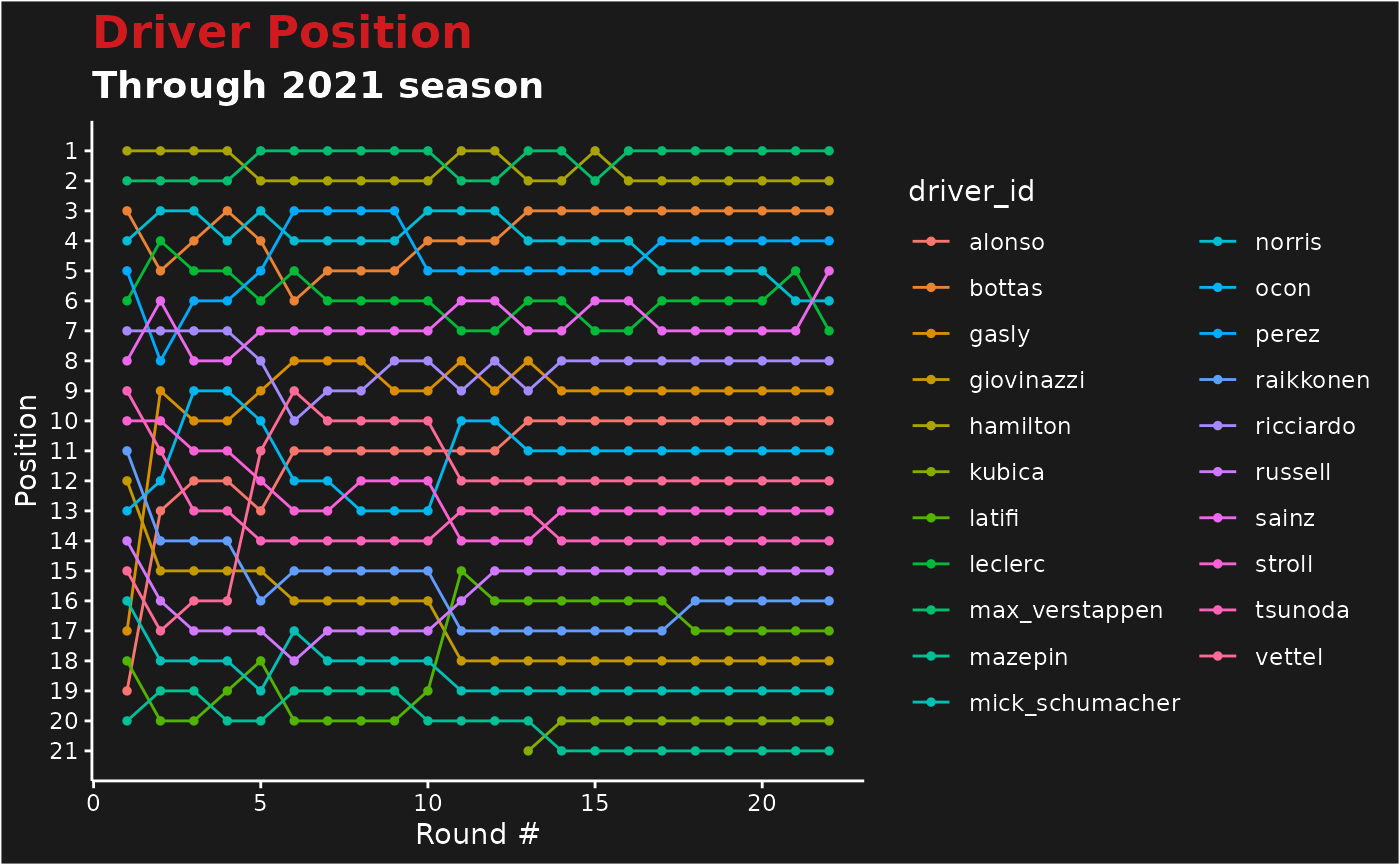
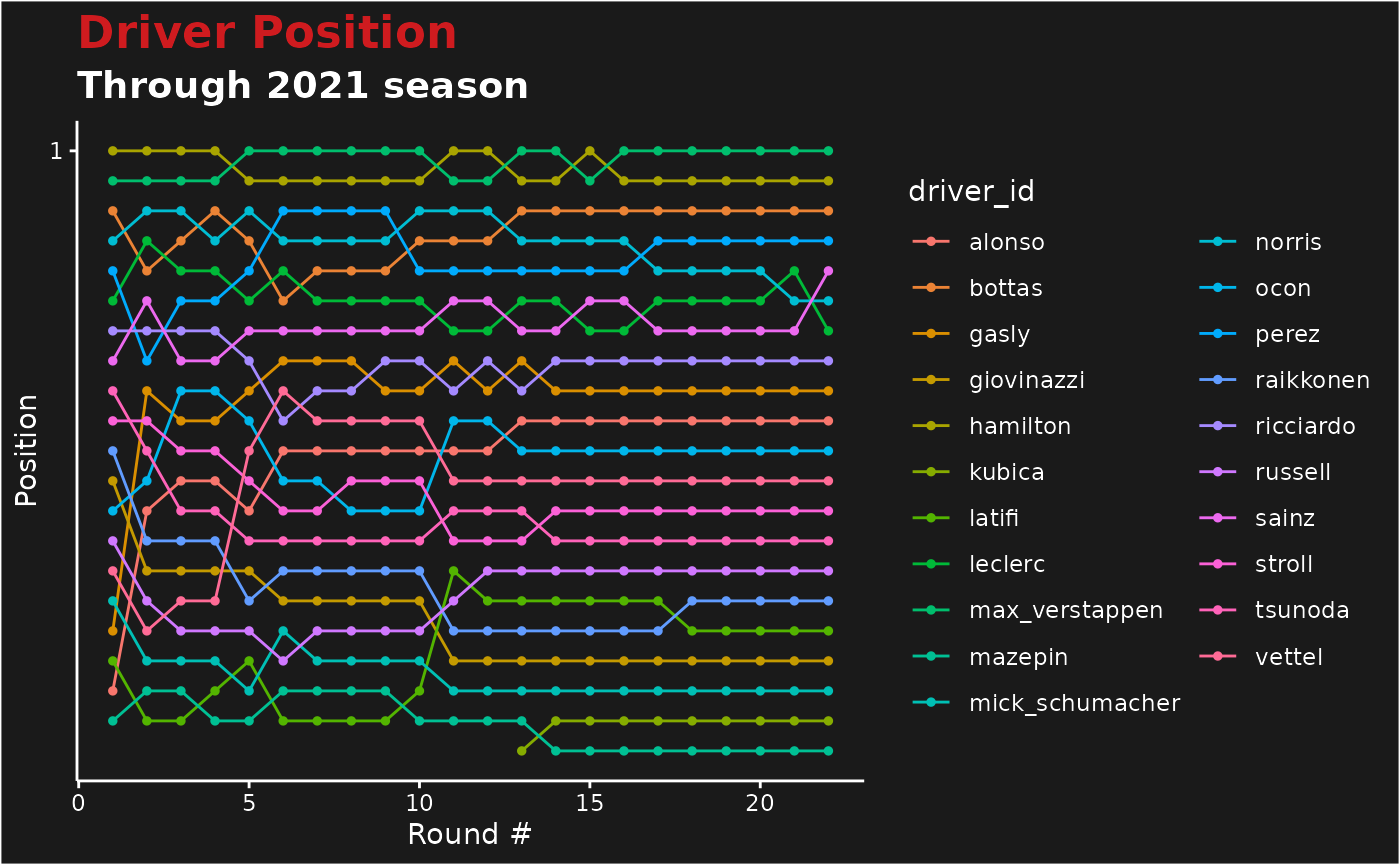
Deploying to gh-pages from @ SCasanova/f1dataR@8d755c33284d47c638581a3f0929dc2a9e71066f 🚀

diff --git a/index.html b/index.html
@@ -145,7 +145,7 @@
 <span><span class="co">#&gt;  8 perez          8        1:33.068     1     93.1   2023</span></span>
 <span><span class="co">#&gt;  9 hulkenberg     9        1:33.589     1     93.6   2023</span></span>
 <span><span class="co">#&gt; 10 stroll         10       1:34.105     1     94.1   2023</span></span>
-<span><span class="co">#&gt; # … with 1,242 more rows</span></span></code></pre></div>
+<span><span class="co">#&gt; # ℹ 1,242 more rows</span></span></code></pre></div>
 <p>or</p>
 <div class="sourceCode" id="cb4"><pre class="downlit sourceCode r">
 <code class="sourceCode R"><span><span class="fu"><a href="reference/load_laps.html">load_laps</a></span><span class="op">(</span>season <span class="op">=</span> <span class="fl">2021</span>, round <span class="op">=</span> <span class="fl">15</span><span class="op">)</span></span>
@@ -162,7 +162,7 @@
 <span><span class="co">#&gt;  8 perez     8        1:50.617     1     111.   2021</span></span>
 <span><span class="co">#&gt;  9 ocon      9        1:51.098     1     111.   2021</span></span>
 <span><span class="co">#&gt; 10 raikkonen 10       1:51.778     1     112.   2021</span></span>
-<span><span class="co">#&gt; # … with 1,015 more rows</span></span></code></pre></div>
+<span><span class="co">#&gt; # ℹ 1,015 more rows</span></span></code></pre></div>
 </div>
 <div class="section level3">
 <h3 id="driver-telemetry">Driver Telemetry<a class="anchor" aria-label="anchor" href="#driver-telemetry"></a>
@@ -174,41 +174,41 @@
 <div class="sourceCode" id="cb5"><pre class="downlit sourceCode r">
 <code class="sourceCode R"><span><span class="fu"><a href="reference/load_driver_telemetry.html">load_driver_telemetry</a></span><span class="op">(</span>season <span class="op">=</span> <span class="fl">2022</span>, round <span class="op">=</span> <span class="fl">4</span>, driver <span class="op">=</span> <span class="st">"PER"</span><span class="op">)</span></span>
 <span><span class="co">#&gt; # A tibble: 592 × 19</span></span>
-<span><span class="co">#&gt;    date                session_time  time   rpm speed n_gear throt…¹ brake   drs</span></span>
-<span><span class="co">#&gt;    &lt;dttm&gt;                     &lt;dbl&gt; &lt;dbl&gt; &lt;dbl&gt; &lt;dbl&gt;  &lt;dbl&gt;   &lt;dbl&gt; &lt;lgl&gt; &lt;dbl&gt;</span></span>
-<span><span class="co">#&gt;  1 2022-04-24 09:19:27        8308. 0     11221   282      7     100 FALSE     0</span></span>
-<span><span class="co">#&gt;  2 2022-04-24 09:19:27        8308. 0.021 11221   283      7     100 FALSE     0</span></span>
-<span><span class="co">#&gt;  3 2022-04-24 09:19:28        8308. 0.278 11221   284      7     100 FALSE     0</span></span>
-<span><span class="co">#&gt;  4 2022-04-24 09:19:28        8308. 0.401 11279   285      7     100 FALSE     0</span></span>
-<span><span class="co">#&gt;  5 2022-04-24 09:19:28        8309. 0.678 11337   286      7     100 FALSE     0</span></span>
-<span><span class="co">#&gt;  6 2022-04-24 09:19:28        8309. 0.681 11376   287      7     100 FALSE     0</span></span>
-<span><span class="co">#&gt;  7 2022-04-24 09:19:28        8309. 0.86  11416   288      7     100 FALSE     0</span></span>
-<span><span class="co">#&gt;  8 2022-04-24 09:19:29        8309. 1.08  11456   289      7     100 FALSE     0</span></span>
-<span><span class="co">#&gt;  9 2022-04-24 09:19:29        8309. 1.18  11461   289      7     100 FALSE     0</span></span>
-<span><span class="co">#&gt; 10 2022-04-24 09:19:29        8309. 1.24  11467   290      7     100 FALSE     0</span></span>
-<span><span class="co">#&gt; # … with 582 more rows, 10 more variables: source &lt;chr&gt;,</span></span>
-<span><span class="co">#&gt; #   relative_distance &lt;dbl&gt;, status &lt;chr&gt;, x &lt;dbl&gt;, y &lt;dbl&gt;, z &lt;dbl&gt;,</span></span>
-<span><span class="co">#&gt; #   distance &lt;dbl&gt;, driver_ahead &lt;chr&gt;, distance_to_driver_ahead &lt;dbl&gt;,</span></span>
-<span><span class="co">#&gt; #   driver_code &lt;chr&gt;, and abbreviated variable name ¹throttle</span></span>
+<span><span class="co">#&gt;    date                session_time  time   rpm speed n_gear throttle brake</span></span>
+<span><span class="co">#&gt;    &lt;dttm&gt;                     &lt;dbl&gt; &lt;dbl&gt; &lt;dbl&gt; &lt;dbl&gt;  &lt;dbl&gt;    &lt;dbl&gt; &lt;lgl&gt;</span></span>
+<span><span class="co">#&gt;  1 2022-04-24 10:19:27        8308. 0     11221   282      7      100 FALSE</span></span>
+<span><span class="co">#&gt;  2 2022-04-24 10:19:27        8308. 0.021 11221   283      7      100 FALSE</span></span>
+<span><span class="co">#&gt;  3 2022-04-24 10:19:28        8308. 0.278 11221   284      7      100 FALSE</span></span>
+<span><span class="co">#&gt;  4 2022-04-24 10:19:28        8308. 0.401 11279   285      7      100 FALSE</span></span>
+<span><span class="co">#&gt;  5 2022-04-24 10:19:28        8309. 0.678 11337   286      7      100 FALSE</span></span>
+<span><span class="co">#&gt;  6 2022-04-24 10:19:28        8309. 0.681 11376   287      7      100 FALSE</span></span>
+<span><span class="co">#&gt;  7 2022-04-24 10:19:28        8309. 0.86  11416   288      7      100 FALSE</span></span>
+<span><span class="co">#&gt;  8 2022-04-24 10:19:29        8309. 1.08  11456   289      7      100 FALSE</span></span>
+<span><span class="co">#&gt;  9 2022-04-24 10:19:29        8309. 1.18  11461   289      7      100 FALSE</span></span>
+<span><span class="co">#&gt; 10 2022-04-24 10:19:29        8309. 1.24  11467   290      7      100 FALSE</span></span>
+<span><span class="co">#&gt; # ℹ 582 more rows</span></span>
+<span><span class="co">#&gt; # ℹ 11 more variables: drs &lt;dbl&gt;, source &lt;chr&gt;, relative_distance &lt;dbl&gt;,</span></span>
+<span><span class="co">#&gt; #   status &lt;chr&gt;, x &lt;dbl&gt;, y &lt;dbl&gt;, z &lt;dbl&gt;, distance &lt;dbl&gt;,</span></span>
+<span><span class="co">#&gt; #   driver_ahead &lt;chr&gt;, distance_to_driver_ahead &lt;dbl&gt;, …</span></span>
 <span></span>
 <span><span class="fu"><a href="reference/load_driver_telemetry.html">load_driver_telemetry</a></span><span class="op">(</span>season <span class="op">=</span> <span class="fl">2018</span>, round <span class="op">=</span> <span class="fl">7</span>, <span class="st">"Q"</span>, <span class="st">"HAM"</span>, laps <span class="op">=</span> <span class="st">"fastest"</span><span class="op">)</span></span>
 <span><span class="co">#&gt; # A tibble: 534 × 19</span></span>
-<span><span class="co">#&gt;    date                session_time  time   rpm speed n_gear throt…¹ brake   drs</span></span>
-<span><span class="co">#&gt;    &lt;dttm&gt;                     &lt;dbl&gt; &lt;dbl&gt; &lt;dbl&gt; &lt;dbl&gt;  &lt;dbl&gt;   &lt;dbl&gt; &lt;lgl&gt; &lt;dbl&gt;</span></span>
-<span><span class="co">#&gt;  1 2018-06-09 13:59:18        3788. 0     10674   297      8     100 FALSE    12</span></span>
-<span><span class="co">#&gt;  2 2018-06-09 13:59:18        3788. 0.016 10704   298      8     100 FALSE    12</span></span>
-<span><span class="co">#&gt;  3 2018-06-09 13:59:18        3788. 0.043 10762   299      8     100 FALSE    12</span></span>
-<span><span class="co">#&gt;  4 2018-06-09 13:59:19        3788. 0.256 10820   301      8     100 FALSE    12</span></span>
-<span><span class="co">#&gt;  5 2018-06-09 13:59:19        3788. 0.343 10847   302      8     100 FALSE    12</span></span>
-<span><span class="co">#&gt;  6 2018-06-09 13:59:19        3788. 0.496 10875   303      8     100 FALSE    12</span></span>
-<span><span class="co">#&gt;  7 2018-06-09 13:59:19        3789. 0.643 10921   303      8     100 FALSE    12</span></span>
-<span><span class="co">#&gt;  8 2018-06-09 13:59:19        3789. 0.736 10967   304      8     100 FALSE    12</span></span>
-<span><span class="co">#&gt;  9 2018-06-09 13:59:19        3789. 0.943 10990   305      8     100 FALSE    12</span></span>
-<span><span class="co">#&gt; 10 2018-06-09 13:59:19        3789. 0.976 11014   306      8     100 FALSE    12</span></span>
-<span><span class="co">#&gt; # … with 524 more rows, 10 more variables: source &lt;chr&gt;,</span></span>
-<span><span class="co">#&gt; #   relative_distance &lt;dbl&gt;, status &lt;chr&gt;, x &lt;dbl&gt;, y &lt;dbl&gt;, z &lt;dbl&gt;,</span></span>
-<span><span class="co">#&gt; #   distance &lt;dbl&gt;, driver_ahead &lt;chr&gt;, distance_to_driver_ahead &lt;dbl&gt;,</span></span>
-<span><span class="co">#&gt; #   driver_code &lt;chr&gt;, and abbreviated variable name ¹throttle</span></span></code></pre></div>
+<span><span class="co">#&gt;    date                session_time  time   rpm speed n_gear throttle brake</span></span>
+<span><span class="co">#&gt;    &lt;dttm&gt;                     &lt;dbl&gt; &lt;dbl&gt; &lt;dbl&gt; &lt;dbl&gt;  &lt;dbl&gt;    &lt;dbl&gt; &lt;lgl&gt;</span></span>
+<span><span class="co">#&gt;  1 2018-06-09 14:59:18        3788. 0     10674   297      8      100 FALSE</span></span>
+<span><span class="co">#&gt;  2 2018-06-09 14:59:18        3788. 0.016 10704   298      8      100 FALSE</span></span>
+<span><span class="co">#&gt;  3 2018-06-09 14:59:18        3788. 0.043 10762   299      8      100 FALSE</span></span>
+<span><span class="co">#&gt;  4 2018-06-09 14:59:19        3788. 0.256 10820   301      8      100 FALSE</span></span>
+<span><span class="co">#&gt;  5 2018-06-09 14:59:19        3788. 0.343 10847   302      8      100 FALSE</span></span>
+<span><span class="co">#&gt;  6 2018-06-09 14:59:19        3788. 0.496 10875   303      8      100 FALSE</span></span>
+<span><span class="co">#&gt;  7 2018-06-09 14:59:19        3789. 0.643 10921   303      8      100 FALSE</span></span>
+<span><span class="co">#&gt;  8 2018-06-09 14:59:19        3789. 0.736 10967   304      8      100 FALSE</span></span>
+<span><span class="co">#&gt;  9 2018-06-09 14:59:19        3789. 0.943 10990   305      8      100 FALSE</span></span>
+<span><span class="co">#&gt; 10 2018-06-09 14:59:19        3789. 0.976 11014   306      8      100 FALSE</span></span>
+<span><span class="co">#&gt; # ℹ 524 more rows</span></span>
+<span><span class="co">#&gt; # ℹ 11 more variables: drs &lt;dbl&gt;, source &lt;chr&gt;, relative_distance &lt;dbl&gt;,</span></span>
+<span><span class="co">#&gt; #   status &lt;chr&gt;, x &lt;dbl&gt;, y &lt;dbl&gt;, z &lt;dbl&gt;, distance &lt;dbl&gt;,</span></span>
+<span><span class="co">#&gt; #   driver_ahead &lt;chr&gt;, distance_to_driver_ahead &lt;dbl&gt;, …</span></span></code></pre></div>
 </div>
 <div class="section level3">
 <h3 id="lap-by-lap-information">Lap-by-Lap information<a class="anchor" aria-label="anchor" href="#lap-by-lap-information"></a>
@@ -220,24 +220,23 @@
 <div class="sourceCode" id="cb6"><pre class="downlit sourceCode r">
 <code class="sourceCode R"><span><span class="fu"><a href="reference/load_session_laps.html">load_session_laps</a></span><span class="op">(</span>season <span class="op">=</span> <span class="fl">2023</span>, round <span class="op">=</span> <span class="fl">4</span>, add_weather <span class="op">=</span> <span class="cn">TRUE</span><span class="op">)</span></span>
 <span><span class="co">#&gt; # A tibble: 962 × 39</span></span>
-<span><span class="co">#&gt;     time driver driver_n…¹ lap_t…² lap_n…³ stint pit_o…⁴ pit_i…⁵ secto…⁶ secto…⁷</span></span>
-<span><span class="co">#&gt;    &lt;dbl&gt; &lt;chr&gt;  &lt;chr&gt;        &lt;dbl&gt;   &lt;dbl&gt; &lt;dbl&gt;   &lt;dbl&gt;   &lt;dbl&gt;   &lt;dbl&gt;   &lt;dbl&gt;</span></span>
-<span><span class="co">#&gt;  1 3892. VER    1             110.       1     1    697.    NaN    NaN      43.2</span></span>
-<span><span class="co">#&gt;  2 4000. VER    1             108.       2     1    NaN     NaN     38.4    43.6</span></span>
-<span><span class="co">#&gt;  3 4108. VER    1             108.       3     1    NaN     NaN     38.5    43.7</span></span>
-<span><span class="co">#&gt;  4 4215. VER    1             107.       4     1    NaN     NaN     37.9    43.4</span></span>
-<span><span class="co">#&gt;  5 4322. VER    1             107.       5     1    NaN     NaN     38.3    43.4</span></span>
-<span><span class="co">#&gt;  6 4430. VER    1             107.       6     1    NaN     NaN     38.3    43.2</span></span>
-<span><span class="co">#&gt;  7 4537. VER    1             107.       7     1    NaN     NaN     38.3    43.0</span></span>
-<span><span class="co">#&gt;  8 4643. VER    1             107.       8     1    NaN     NaN     38.0    43.0</span></span>
-<span><span class="co">#&gt;  9 4750. VER    1             107.       9     1    NaN     NaN     38.0    43.1</span></span>
-<span><span class="co">#&gt; 10 4861. VER    1             111.      10     1    NaN    4860.    37.9    43.4</span></span>
-<span><span class="co">#&gt; # … with 952 more rows, 29 more variables: sector3time &lt;dbl&gt;,</span></span>
+<span><span class="co">#&gt;     time driver driver_number lap_time lap_number stint pit_out_time pit_in_time</span></span>
+<span><span class="co">#&gt;    &lt;dbl&gt; &lt;chr&gt;  &lt;chr&gt;            &lt;dbl&gt;      &lt;dbl&gt; &lt;dbl&gt;        &lt;dbl&gt;       &lt;dbl&gt;</span></span>
+<span><span class="co">#&gt;  1 3892. VER    1                 110.          1     1         697.        NaN </span></span>
+<span><span class="co">#&gt;  2 4000. VER    1                 108.          2     1         NaN         NaN </span></span>
+<span><span class="co">#&gt;  3 4108. VER    1                 108.          3     1         NaN         NaN </span></span>
+<span><span class="co">#&gt;  4 4215. VER    1                 107.          4     1         NaN         NaN </span></span>
+<span><span class="co">#&gt;  5 4322. VER    1                 107.          5     1         NaN         NaN </span></span>
+<span><span class="co">#&gt;  6 4430. VER    1                 107.          6     1         NaN         NaN </span></span>
+<span><span class="co">#&gt;  7 4537. VER    1                 107.          7     1         NaN         NaN </span></span>
+<span><span class="co">#&gt;  8 4643. VER    1                 107.          8     1         NaN         NaN </span></span>
+<span><span class="co">#&gt;  9 4750. VER    1                 107.          9     1         NaN         NaN </span></span>
+<span><span class="co">#&gt; 10 4861. VER    1                 111.         10     1         NaN        4860.</span></span>
+<span><span class="co">#&gt; # ℹ 952 more rows</span></span>
+<span><span class="co">#&gt; # ℹ 31 more variables: sector1time &lt;dbl&gt;, sector2time &lt;dbl&gt;, sector3time &lt;dbl&gt;,</span></span>
 <span><span class="co">#&gt; #   sector1session_time &lt;dbl&gt;, sector2session_time &lt;dbl&gt;,</span></span>
 <span><span class="co">#&gt; #   sector3session_time &lt;dbl&gt;, speed_i1 &lt;dbl&gt;, speed_i2 &lt;dbl&gt;, speed_fl &lt;dbl&gt;,</span></span>
-<span><span class="co">#&gt; #   speed_st &lt;dbl&gt;, is_personal_best &lt;list&gt;, compound &lt;chr&gt;, …, and abbreviated</span></span>
-<span><span class="co">#&gt; #   variable names ¹driver_number, ²lap_time, ³lap_number, ⁴pit_out_time,</span></span>
-<span><span class="co">#&gt; #   ⁵pit_in_time, ⁶sector1time, ⁷sector2time</span></span></code></pre></div>
+<span><span class="co">#&gt; #   speed_st &lt;dbl&gt;, …</span></span></code></pre></div>
 </div>
 <div class="section level3">
 <h3 id="plotting">Plotting<a class="anchor" aria-label="anchor" href="#plotting"></a>
@@ -246,13 +245,15 @@
 <p><code>plot_fastest(season = "current", round = "last", session = "R", driver, color = "gear")</code></p>
 </blockquote>
 <p>A built in plotting function that plots the circuit and a driver’s fastest laps’ <code>speed</code> or <code>gear</code> exists.</p>
+<div class="sourceCode" id="cb7"><pre class="downlit sourceCode r">
+<code class="sourceCode R"><span><span class="fu"><a href="reference/plot_fastest.html">plot_fastest</a></span><span class="op">(</span>season <span class="op">=</span> <span class="fl">2023</span>, round <span class="op">=</span> <span class="fl">1</span>, session <span class="op">=</span> <span class="st">"R"</span>, driver <span class="op">=</span> <span class="st">"VER"</span>, color <span class="op">=</span> <span class="st">"gear"</span><span class="op">)</span></span></code></pre></div>
 <p><img src="reference/figures/README-plot-1.png" width="100%"></p>
 </div>
 <div class="section level3">
 <h3 id="cache-information">Cache information<a class="anchor" aria-label="anchor" href="#cache-information"></a>
 </h3>
 <p>The cache directory for sessions can be set manually with the options function</p>
-<div class="sourceCode" id="cb7"><pre class="downlit sourceCode r">
+<div class="sourceCode" id="cb8"><pre class="downlit sourceCode r">
 <code class="sourceCode R"><span><span class="fu"><a href="https://rdrr.io/r/base/options.html" class="external-link">options</a></span><span class="op">(</span>f1dataR.cache <span class="op">=</span> <span class="st">"path/to/directory"</span><span class="op">)</span></span></code></pre></div>
 </div>
 <div class="section level3">
@@ -286,7 +287,7 @@
 <h2 id="loaded-data">Loaded Data<a class="anchor" aria-label="anchor" href="#loaded-data"></a>
 </h2>
 <p>The package also includes a static data frame for all current drivers and their respective constructors. Complete with team colors, and links to team logos.</p>
-<div class="sourceCode" id="cb8"><pre class="downlit sourceCode r">
+<div class="sourceCode" id="cb9"><pre class="downlit sourceCode r">
 <code class="sourceCode R"><span><span class="va">constructor_data</span> <span class="op">%&gt;%</span> <span class="fu"><a href="https://rdrr.io/r/base/colnames.html" class="external-link">colnames</a></span><span class="op">(</span><span class="op">)</span></span>
 <span><span class="co">#&gt; [1] "constructor_id"     "constructor_color"  "constructor_color2"</span></span>
 <span><span class="co">#&gt; [4] "constructor_logo"</span></span></code></pre></div>
@@ -306,8 +307,9 @@
 <div class="license">
 <h2 data-toc-skip>License</h2>
 <ul class="list-unstyled">
-<li><a href="LICENSE.html">Full license</a></li>
-<li><small><a href="https://opensource.org/licenses/mit-license.php" class="external-link">MIT</a> + file <a href="LICENSE-text.html">LICENSE</a></small></li>
+<li>
+<a href="https://opensource.org/licenses/mit-license.php" class="external-link">MIT</a> + file <a href="LICENSE-text.html">LICENSE</a>
+</li>
 </ul>
 </div>
 
@@ -336,6 +338,7 @@
 <li><a href="https://github.com/SCasanova/f1dataR/actions/workflows/test-coverage.yaml" class="external-link"><img src="https://github.com/SCasanova/f1dataR/actions/workflows/test-coverage.yaml/badge.svg" alt="test-coverage"></a></li>
 <li><a href="https://app.codecov.io/gh/SCasanova/f1dataR?branch=main" class="external-link"><img src="https://img.shields.io/codecov/c/github/SCasanova/f1dataR?label=codecov&amp;logo=codecov" alt="Codecov test coverage"></a></li>
 <li><a href="https://lifecycle.r-lib.org/articles/stages.html#stable" class="external-link"><img src="https://img.shields.io/badge/lifecycle-stable-brightgreen.svg" alt="Lifecycle: stable"></a></li>
+<li><a href="https://CRAN.R-project.org/package=f1dataR" class="external-link"><img src="https://www.r-pkg.org/badges/version/f1dataR" alt="CRAN status"></a></li>
 </ul>
 </div>
 

diff --git a/articles/ergast-data-analysis.html b/articles/ergast-data-analysis.html
@@ -105,9 +105,9 @@
 <h2 id="introduction">Introduction<a class="anchor" aria-label="anchor" href="#introduction"></a>
 </h2>
 <p>This vignette provides a few demonstrations of possible data analysis
-projects using <code>f1dataR</code> and the data pulled from the <a href="https://ergast.com/mrd" class="external-link">Ergast API</a>. All of the data used comes
-from Ergast and is not supplied by Formula 1. However, this data source
-is incredibly useful for a host of data.</p>
+projects using <code>f1dataR</code> and the data pulled from the <a href="https://ergast.com/mrd/" class="external-link">Ergast API</a>. All of the data used
+comes from Ergast and is not supplied by Formula 1. However, this data
+source is incredibly useful for a host of data.</p>
 <p>We’ll load all the required libraries for our data analysis:</p>
 <div class="sourceCode" id="cb1"><pre class="downlit sourceCode r">
 <code class="sourceCode R"><span><span class="kw"><a href="https://rdrr.io/r/base/library.html" class="external-link">library</a></span><span class="op">(</span><span class="va"><a href="https://scasanova.github.io/f1dataR/">f1dataR</a></span><span class="op">)</span></span>
@@ -164,12 +164,15 @@ We’ll filter the results to remove those who didn’t finish the race, and
 also those who didn’t start from the grid (i.e. those who started from
 Pit Lane, where <code>grid</code> = 0).</p>
 <div class="sourceCode" id="cb3"><pre class="downlit sourceCode r">
-<code class="sourceCode R"><span><span class="kw"><a href="https://rdrr.io/r/base/library.html" class="external-link">library</a></span><span class="op">(</span><span class="va"><a href="https://purrr.tidyverse.org/" class="external-link">purrr</a></span><span class="op">)</span></span>
-<span><span class="co"># Load the data</span></span>
-<span><span class="va">results</span> <span class="op">&lt;-</span> <span class="fu"><a href="https://purrr.tidyverse.org/reference/list_c.html" class="external-link">list_rbind</a></span><span class="op">(</span><span class="fu"><a href="https://purrr.tidyverse.org/reference/map.html" class="external-link">map</a></span><span class="op">(</span><span class="fu"><a href="https://rdrr.io/r/base/seq.html" class="external-link">seq_len</a></span><span class="op">(</span><span class="fl">17</span><span class="op">)</span>, .f <span class="op">=</span> <span class="kw">function</span><span class="op">(</span><span class="va">x</span><span class="op">)</span> <span class="op">{</span></span>
+<code class="sourceCode R"><span><span class="co"># Load the data</span></span>
+<span><span class="va">results</span> <span class="op">&lt;-</span> <span class="fu"><a href="https://rdrr.io/r/base/data.frame.html" class="external-link">data.frame</a></span><span class="op">(</span><span class="op">)</span></span>
+<span><span class="kw">for</span><span class="op">(</span><span class="va">i</span> <span class="kw">in</span> <span class="fu"><a href="https://rdrr.io/r/base/seq.html" class="external-link">seq_len</a></span><span class="op">(</span><span class="fl">17</span><span class="op">)</span><span class="op">)</span> <span class="op">{</span></span>
 <span>  <span class="fu"><a href="https://rdrr.io/r/base/Sys.sleep.html" class="external-link">Sys.sleep</a></span><span class="op">(</span><span class="fl">1</span><span class="op">)</span></span>
-<span>  <span class="fu"><a href="../reference/load_results.html">load_results</a></span><span class="op">(</span><span class="fl">2022</span>, <span class="va">x</span><span class="op">)</span></span>
-<span><span class="op">}</span><span class="op">)</span><span class="op">)</span> <span class="op"><a href="https://magrittr.tidyverse.org/reference/pipe.html" class="external-link">%&gt;%</a></span></span>
+<span>  <span class="va">r</span> <span class="op">&lt;-</span> <span class="fu"><a href="../reference/load_results.html">load_results</a></span><span class="op">(</span><span class="fl">2022</span>, <span class="va">i</span><span class="op">)</span></span>
+<span>  <span class="va">results</span> <span class="op">&lt;-</span> <span class="fu">dplyr</span><span class="fu">::</span><span class="fu"><a href="https://dplyr.tidyverse.org/reference/bind_rows.html" class="external-link">bind_rows</a></span><span class="op">(</span><span class="va">results</span>, <span class="va">r</span><span class="op">)</span></span>
+<span><span class="op">}</span></span>
+<span></span>
+<span><span class="va">results</span> <span class="op">&lt;-</span> <span class="va">results</span> <span class="op"><a href="https://magrittr.tidyverse.org/reference/pipe.html" class="external-link">%&gt;%</a></span></span>
 <span>  <span class="fu"><a href="https://dplyr.tidyverse.org/reference/mutate.html" class="external-link">mutate</a></span><span class="op">(</span></span>
 <span>    grid <span class="op">=</span> <span class="fu"><a href="https://rdrr.io/r/base/numeric.html" class="external-link">as.numeric</a></span><span class="op">(</span><span class="va">grid</span><span class="op">)</span>,</span>
 <span>    position <span class="op">=</span> <span class="fu"><a href="https://rdrr.io/r/base/numeric.html" class="external-link">as.numeric</a></span><span class="op">(</span><span class="va">position</span><span class="op">)</span></span>
@@ -218,7 +221,7 @@ which had good competition throughout the year for P1.</p>
 <span>  <span class="fu"><a href="https://ggplot2.tidyverse.org/reference/labs.html" class="external-link">ggtitle</a></span><span class="op">(</span><span class="st">"Driver Position"</span>, subtitle <span class="op">=</span> <span class="st">"Through 2021 season"</span><span class="op">)</span> <span class="op">+</span></span>
 <span>  <span class="fu"><a href="https://ggplot2.tidyverse.org/reference/labs.html" class="external-link">xlab</a></span><span class="op">(</span><span class="st">"Round #"</span><span class="op">)</span> <span class="op">+</span></span>
 <span>  <span class="fu"><a href="https://ggplot2.tidyverse.org/reference/labs.html" class="external-link">ylab</a></span><span class="op">(</span><span class="st">"Position"</span><span class="op">)</span> <span class="op">+</span></span>
-<span>  <span class="fu"><a href="https://ggplot2.tidyverse.org/reference/scale_continuous.html" class="external-link">scale_y_reverse</a></span><span class="op">(</span>breaks <span class="op">=</span> <span class="fl">1</span><span class="op">:</span><span class="fu"><a href="https://rdrr.io/r/base/length.html" class="external-link">length</a></span><span class="op">(</span><span class="fu"><a href="https://rdrr.io/r/base/unique.html" class="external-link">unique</a></span><span class="op">(</span><span class="va">points</span><span class="op">$</span><span class="va">position</span><span class="op">)</span><span class="op">)</span><span class="op">)</span> <span class="op">+</span></span>
+<span>  <span class="fu"><a href="https://ggplot2.tidyverse.org/reference/scale_continuous.html" class="external-link">scale_y_reverse</a></span><span class="op">(</span>breaks <span class="op">=</span> <span class="fu"><a href="https://rdrr.io/r/base/seq.html" class="external-link">seq_along</a></span><span class="op">(</span><span class="fu"><a href="https://rdrr.io/r/base/length.html" class="external-link">length</a></span><span class="op">(</span><span class="fu"><a href="https://rdrr.io/r/base/unique.html" class="external-link">unique</a></span><span class="op">(</span><span class="va">points</span><span class="op">$</span><span class="va">position</span><span class="op">)</span><span class="op">)</span><span class="op">)</span><span class="op">)</span> <span class="op">+</span></span>
 <span>  <span class="fu"><a href="../reference/theme_dark_f1.html">theme_dark_f1</a></span><span class="op">(</span>axis_marks <span class="op">=</span> <span class="cn">TRUE</span><span class="op">)</span></span></code></pre></div>
 <p><img src="ergast-data-analysis_files/figure-html/round_position-1.png" width="700"></p>
 <p>What may be more interesting is the total accumulation of points. For
@@ -256,7 +259,7 @@ built-in data set.</p>
 <span><span class="co"># Plot the results</span></span>
 <span><span class="fu"><a href="https://ggplot2.tidyverse.org/reference/ggplot.html" class="external-link">ggplot</a></span><span class="op">(</span><span class="va">rus</span>, <span class="fu"><a href="https://ggplot2.tidyverse.org/reference/aes.html" class="external-link">aes</a></span><span class="op">(</span>x <span class="op">=</span> <span class="va">lap</span>, y <span class="op">=</span> <span class="va">time_sec</span><span class="op">)</span><span class="op">)</span> <span class="op">+</span></span>
 <span>  <span class="fu"><a href="https://ggplot2.tidyverse.org/reference/geom_point.html" class="external-link">geom_point</a></span><span class="op">(</span>color <span class="op">=</span> <span class="va">constructor_data</span> <span class="op"><a href="https://magrittr.tidyverse.org/reference/pipe.html" class="external-link">%&gt;%</a></span> <span class="fu"><a href="https://dplyr.tidyverse.org/reference/filter.html" class="external-link">filter</a></span><span class="op">(</span><span class="va">constructor_id</span> <span class="op">==</span> <span class="st">"mercedes"</span><span class="op">)</span> <span class="op"><a href="https://magrittr.tidyverse.org/reference/pipe.html" class="external-link">%&gt;%</a></span> <span class="fu"><a href="https://dplyr.tidyverse.org/reference/pull.html" class="external-link">pull</a></span><span class="op">(</span><span class="va">constructor_color</span><span class="op">)</span><span class="op">)</span> <span class="op">+</span></span>
-<span>  <span class="fu"><a href="../reference/theme_dark_f1.html">theme_dark_f1</a></span><span class="op">(</span>axis_marks <span class="op">=</span> <span class="cn">T</span><span class="op">)</span> <span class="op">+</span></span>
+<span>  <span class="fu"><a href="../reference/theme_dark_f1.html">theme_dark_f1</a></span><span class="op">(</span>axis_marks <span class="op">=</span> <span class="cn">TRUE</span><span class="op">)</span> <span class="op">+</span></span>
 <span>  <span class="fu"><a href="https://ggplot2.tidyverse.org/reference/labs.html" class="external-link">ggtitle</a></span><span class="op">(</span><span class="st">"Russell Lap times through the Grand Prix"</span>, subtitle <span class="op">=</span> <span class="va">racename</span><span class="op">)</span> <span class="op">+</span></span>
 <span>  <span class="fu"><a href="https://ggplot2.tidyverse.org/reference/labs.html" class="external-link">xlab</a></span><span class="op">(</span><span class="st">"Lap Number"</span><span class="op">)</span> <span class="op">+</span></span>
 <span>  <span class="fu"><a href="https://ggplot2.tidyverse.org/reference/labs.html" class="external-link">ylab</a></span><span class="op">(</span><span class="st">"Lap Time (s)"</span><span class="op">)</span></span></code></pre></div>
@@ -278,7 +281,7 @@ racing laps).</p>
 <span>  <span class="fu"><a href="https://dplyr.tidyverse.org/reference/mutate.html" class="external-link">mutate</a></span><span class="op">(</span>driver_id <span class="op">=</span> <span class="fu"><a href="https://rdrr.io/r/base/factor.html" class="external-link">factor</a></span><span class="op">(</span><span class="va">driver_id</span>, <span class="fu"><a href="https://rdrr.io/r/base/unique.html" class="external-link">unique</a></span><span class="op">(</span><span class="va">driver_id</span><span class="op">[</span><span class="fu"><a href="https://rdrr.io/r/base/order.html" class="external-link">order</a></span><span class="op">(</span><span class="va">driver_avg</span><span class="op">)</span><span class="op">]</span><span class="op">)</span><span class="op">)</span><span class="op">)</span></span>
 <span></span>
 <span><span class="fu"><a href="https://ggplot2.tidyverse.org/reference/ggplot.html" class="external-link">ggplot</a></span><span class="op">(</span><span class="va">laps</span>, <span class="fu"><a href="https://ggplot2.tidyverse.org/reference/aes.html" class="external-link">aes</a></span><span class="op">(</span>x <span class="op">=</span> <span class="va">driver_id</span>, y <span class="op">=</span> <span class="va">time_sec</span><span class="op">)</span><span class="op">)</span> <span class="op">+</span></span>
-<span>  <span class="fu"><a href="https://ggplot2.tidyverse.org/reference/geom_violin.html" class="external-link">geom_violin</a></span><span class="op">(</span>trim <span class="op">=</span> <span class="cn">F</span><span class="op">)</span> <span class="op">+</span></span>
+<span>  <span class="fu"><a href="https://ggplot2.tidyverse.org/reference/geom_violin.html" class="external-link">geom_violin</a></span><span class="op">(</span>trim <span class="op">=</span> <span class="cn">FALSE</span><span class="op">)</span> <span class="op">+</span></span>
 <span>  <span class="fu"><a href="https://ggplot2.tidyverse.org/reference/geom_boxplot.html" class="external-link">geom_boxplot</a></span><span class="op">(</span>width <span class="op">=</span> <span class="fl">0.1</span><span class="op">)</span> <span class="op">+</span></span>
 <span>  <span class="fu"><a href="../reference/theme_dark_f1.html">theme_dark_f1</a></span><span class="op">(</span>axis_marks <span class="op">=</span> <span class="cn">TRUE</span><span class="op">)</span> <span class="op">+</span></span>
 <span>  <span class="fu"><a href="https://ggplot2.tidyverse.org/reference/labs.html" class="external-link">ggtitle</a></span><span class="op">(</span><span class="st">"Driver Lap Times"</span>, subtitle <span class="op">=</span> <span class="fu"><a href="https://rdrr.io/r/base/paste.html" class="external-link">paste</a></span><span class="op">(</span><span class="st">"Racing Laps Only -"</span>, <span class="va">racename</span><span class="op">)</span><span class="op">)</span> <span class="op">+</span></span>
@@ -302,7 +305,7 @@ results!</p>
 <span></span>
 <span><span class="co"># Process the Data</span></span>
 <span><span class="va">quali</span> <span class="op">&lt;-</span> <span class="va">quali</span> <span class="op"><a href="https://magrittr.tidyverse.org/reference/pipe.html" class="external-link">%&gt;%</a></span></span>
-<span>  <span class="fu"><a href="https://dplyr.tidyverse.org/reference/summarise.html" class="external-link">summarize</a></span><span class="op">(</span>t_min <span class="op">=</span> <span class="fu"><a href="https://rdrr.io/r/base/Extremes.html" class="external-link">min</a></span><span class="op">(</span><span class="va">q1_sec</span>, <span class="va">q2_sec</span>, <span class="va">q3_sec</span>, na.rm <span class="op">=</span> <span class="cn">T</span><span class="op">)</span>, .by <span class="op">=</span> <span class="va">driver_id</span><span class="op">)</span> <span class="op"><a href="https://magrittr.tidyverse.org/reference/pipe.html" class="external-link">%&gt;%</a></span></span>
+<span>  <span class="fu"><a href="https://dplyr.tidyverse.org/reference/summarise.html" class="external-link">summarize</a></span><span class="op">(</span>t_min <span class="op">=</span> <span class="fu"><a href="https://rdrr.io/r/base/Extremes.html" class="external-link">min</a></span><span class="op">(</span><span class="va">q1_sec</span>, <span class="va">q2_sec</span>, <span class="va">q3_sec</span>, na.rm <span class="op">=</span> <span class="cn">TRUE</span><span class="op">)</span>, .by <span class="op">=</span> <span class="va">driver_id</span><span class="op">)</span> <span class="op"><a href="https://magrittr.tidyverse.org/reference/pipe.html" class="external-link">%&gt;%</a></span></span>
 <span>  <span class="fu"><a href="https://dplyr.tidyverse.org/reference/mutate.html" class="external-link">mutate</a></span><span class="op">(</span></span>
 <span>    t_diff <span class="op">=</span> <span class="va">t_min</span> <span class="op">-</span> <span class="fu"><a href="https://rdrr.io/r/base/Extremes.html" class="external-link">min</a></span><span class="op">(</span><span class="va">t_min</span><span class="op">)</span>,</span>
 <span>    driver_id <span class="op">=</span> <span class="fu"><a href="https://rdrr.io/r/base/factor.html" class="external-link">factor</a></span><span class="op">(</span><span class="va">driver_id</span>, <span class="fu"><a href="https://rdrr.io/r/base/unique.html" class="external-link">unique</a></span><span class="op">(</span><span class="va">driver_id</span><span class="op">[</span><span class="fu"><a href="https://rdrr.io/r/base/order.html" class="external-link">order</a></span><span class="op">(</span><span class="op">-</span><span class="va">t_min</span><span class="op">)</span><span class="op">]</span><span class="op">)</span><span class="op">)</span></span>

diff --git a/reference/load_driver_telemetry.html b/reference/load_driver_telemetry.html
@@ -140,14 +140,14 @@ laps in <code>laps</code>.</p></dd>
 
     <div id="ref-examples">
     <h2>Examples</h2>
-    <div class="sourceCode"><pre class="sourceCode r"><code><span class="r-in"><span><span class="kw">if</span> <span class="op">(</span><span class="cn">FALSE</span><span class="op">)</span> <span class="op">{</span></span></span>
-<span class="r-in"><span><span class="va">telem</span> <span class="op">&lt;-</span> <span class="fu">load_driver_telemetry</span><span class="op">(</span></span></span>
-<span class="r-in"><span>  season <span class="op">=</span> <span class="fl">2023</span>,</span></span>
-<span class="r-in"><span>  round <span class="op">=</span> <span class="st">"Bahrain"</span>,</span></span>
-<span class="r-in"><span>  session <span class="op">=</span> <span class="st">"Q"</span>,</span></span>
-<span class="r-in"><span>  driver <span class="op">=</span> <span class="st">"HAM"</span>,</span></span>
-<span class="r-in"><span>  laps <span class="op">=</span> <span class="st">"fastest"</span></span></span>
-<span class="r-in"><span><span class="op">)</span></span></span>
+    <div class="sourceCode"><pre class="sourceCode r"><code><span class="r-in"><span><span class="kw">if</span> <span class="op">(</span><span class="fu"><a href="https://rdrr.io/r/base/interactive.html" class="external-link">interactive</a></span><span class="op">(</span><span class="op">)</span><span class="op">)</span> <span class="op">{</span></span></span>
+<span class="r-in"><span>  <span class="va">telem</span> <span class="op">&lt;-</span> <span class="fu">load_driver_telemetry</span><span class="op">(</span></span></span>
+<span class="r-in"><span>    season <span class="op">=</span> <span class="fl">2023</span>,</span></span>
+<span class="r-in"><span>    round <span class="op">=</span> <span class="st">"Bahrain"</span>,</span></span>
+<span class="r-in"><span>    session <span class="op">=</span> <span class="st">"Q"</span>,</span></span>
+<span class="r-in"><span>    driver <span class="op">=</span> <span class="st">"HAM"</span>,</span></span>
+<span class="r-in"><span>    laps <span class="op">=</span> <span class="st">"fastest"</span></span></span>
+<span class="r-in"><span>  <span class="op">)</span></span></span>
 <span class="r-in"><span><span class="op">}</span></span></span>
 <span class="r-in"><span></span></span>
 </code></pre></div>

diff --git a/reference/load_race_session.html b/reference/load_race_session.html
@@ -139,9 +139,9 @@ default is the current working directory.</p></dd>
 
     <div id="ref-examples">
     <h2>Examples</h2>
-    <div class="sourceCode"><pre class="sourceCode r"><code><span class="r-in"><span><span class="kw">if</span> <span class="op">(</span><span class="cn">FALSE</span><span class="op">)</span> <span class="op">{</span></span></span>
-<span class="r-in"><span><span class="co"># Load the quali session from 2019 first round</span></span></span>
-<span class="r-in"><span><span class="va">session</span> <span class="op">&lt;-</span> <span class="fu">load_race_session</span><span class="op">(</span>season <span class="op">=</span> <span class="fl">2019</span>, round <span class="op">=</span> <span class="fl">1</span>, session <span class="op">=</span> <span class="st">"Q"</span><span class="op">)</span></span></span>
+    <div class="sourceCode"><pre class="sourceCode r"><code><span class="r-in"><span><span class="co"># Load the quali session from 2019 first round</span></span></span>
+<span class="r-in"><span><span class="kw">if</span> <span class="op">(</span><span class="fu"><a href="https://rdrr.io/r/base/interactive.html" class="external-link">interactive</a></span><span class="op">(</span><span class="op">)</span><span class="op">)</span> <span class="op">{</span></span></span>
+<span class="r-in"><span>  <span class="va">session</span> <span class="op">&lt;-</span> <span class="fu">load_race_session</span><span class="op">(</span>season <span class="op">=</span> <span class="fl">2019</span>, round <span class="op">=</span> <span class="fl">1</span>, session <span class="op">=</span> <span class="st">"Q"</span><span class="op">)</span></span></span>
 <span class="r-in"><span><span class="op">}</span></span></span>
 </code></pre></div>
     </div>

diff --git a/reference/plot_fastest.html b/reference/plot_fastest.html
@@ -121,9 +121,9 @@ color variable.</p>
 
     <div id="ref-examples">
     <h2>Examples</h2>
-    <div class="sourceCode"><pre class="sourceCode r"><code><span class="r-in"><span><span class="kw">if</span> <span class="op">(</span><span class="cn">FALSE</span><span class="op">)</span> <span class="op">{</span></span></span>
-<span class="r-in"><span><span class="co"># Plot Verstappen's fastest lap (speed) from Bahrain 2023:</span></span></span>
-<span class="r-in"><span><span class="fu">plot_fastest</span><span class="op">(</span><span class="fl">2023</span>, <span class="fl">1</span>, <span class="st">"R"</span>, <span class="st">"VER"</span>, <span class="st">"speed"</span><span class="op">)</span></span></span>
+    <div class="sourceCode"><pre class="sourceCode r"><code><span class="r-in"><span><span class="co"># Plot Verstappen's fastest lap (speed) from Bahrain 2023:</span></span></span>
+<span class="r-in"><span><span class="kw">if</span> <span class="op">(</span><span class="fu"><a href="https://rdrr.io/r/base/interactive.html" class="external-link">interactive</a></span><span class="op">(</span><span class="op">)</span><span class="op">)</span> <span class="op">{</span></span></span>
+<span class="r-in"><span>  <span class="fu">plot_fastest</span><span class="op">(</span><span class="fl">2023</span>, <span class="fl">1</span>, <span class="st">"R"</span>, <span class="st">"VER"</span>, <span class="st">"speed"</span><span class="op">)</span></span></span>
 <span class="r-in"><span><span class="op">}</span></span></span>
 </code></pre></div>
     </div>

diff --git a/LICENSE-text.html b/LICENSE-text.html
@@ -62,8 +62,27 @@
       <h1>License</h1>
     </div>
 
-<pre>YEAR: 2023
-COPYRIGHT HOLDER: f1dataR authors
+<pre># MIT License
+
+Copyright (c) 2023 f1dataR authors
+
+Permission is hereby granted, free of charge, to any person obtaining a copy
+of this software and associated documentation files (the "Software"), to deal
+in the Software without restriction, including without limitation the rights
+to use, copy, modify, merge, publish, distribute, sublicense, and/or sell
+copies of the Software, and to permit persons to whom the Software is
+furnished to do so, subject to the following conditions:
+
+The above copyright notice and this permission notice shall be included in all
+copies or substantial portions of the Software.
+
+THE SOFTWARE IS PROVIDED "AS IS", WITHOUT WARRANTY OF ANY KIND, EXPRESS OR
+IMPLIED, INCLUDING BUT NOT LIMITED TO THE WARRANTIES OF MERCHANTABILITY,
+FITNESS FOR A PARTICULAR PURPOSE AND NONINFRINGEMENT. IN NO EVENT SHALL THE
+AUTHORS OR COPYRIGHT HOLDERS BE LIABLE FOR ANY CLAIM, DAMAGES OR OTHER
+LIABILITY, WHETHER IN AN ACTION OF CONTRACT, TORT OR OTHERWISE, ARISING FROM,
+OUT OF OR IN CONNECTION WITH THE SOFTWARE OR THE USE OR OTHER DEALINGS IN THE
+SOFTWARE.
 </pre>
 
   </div>
